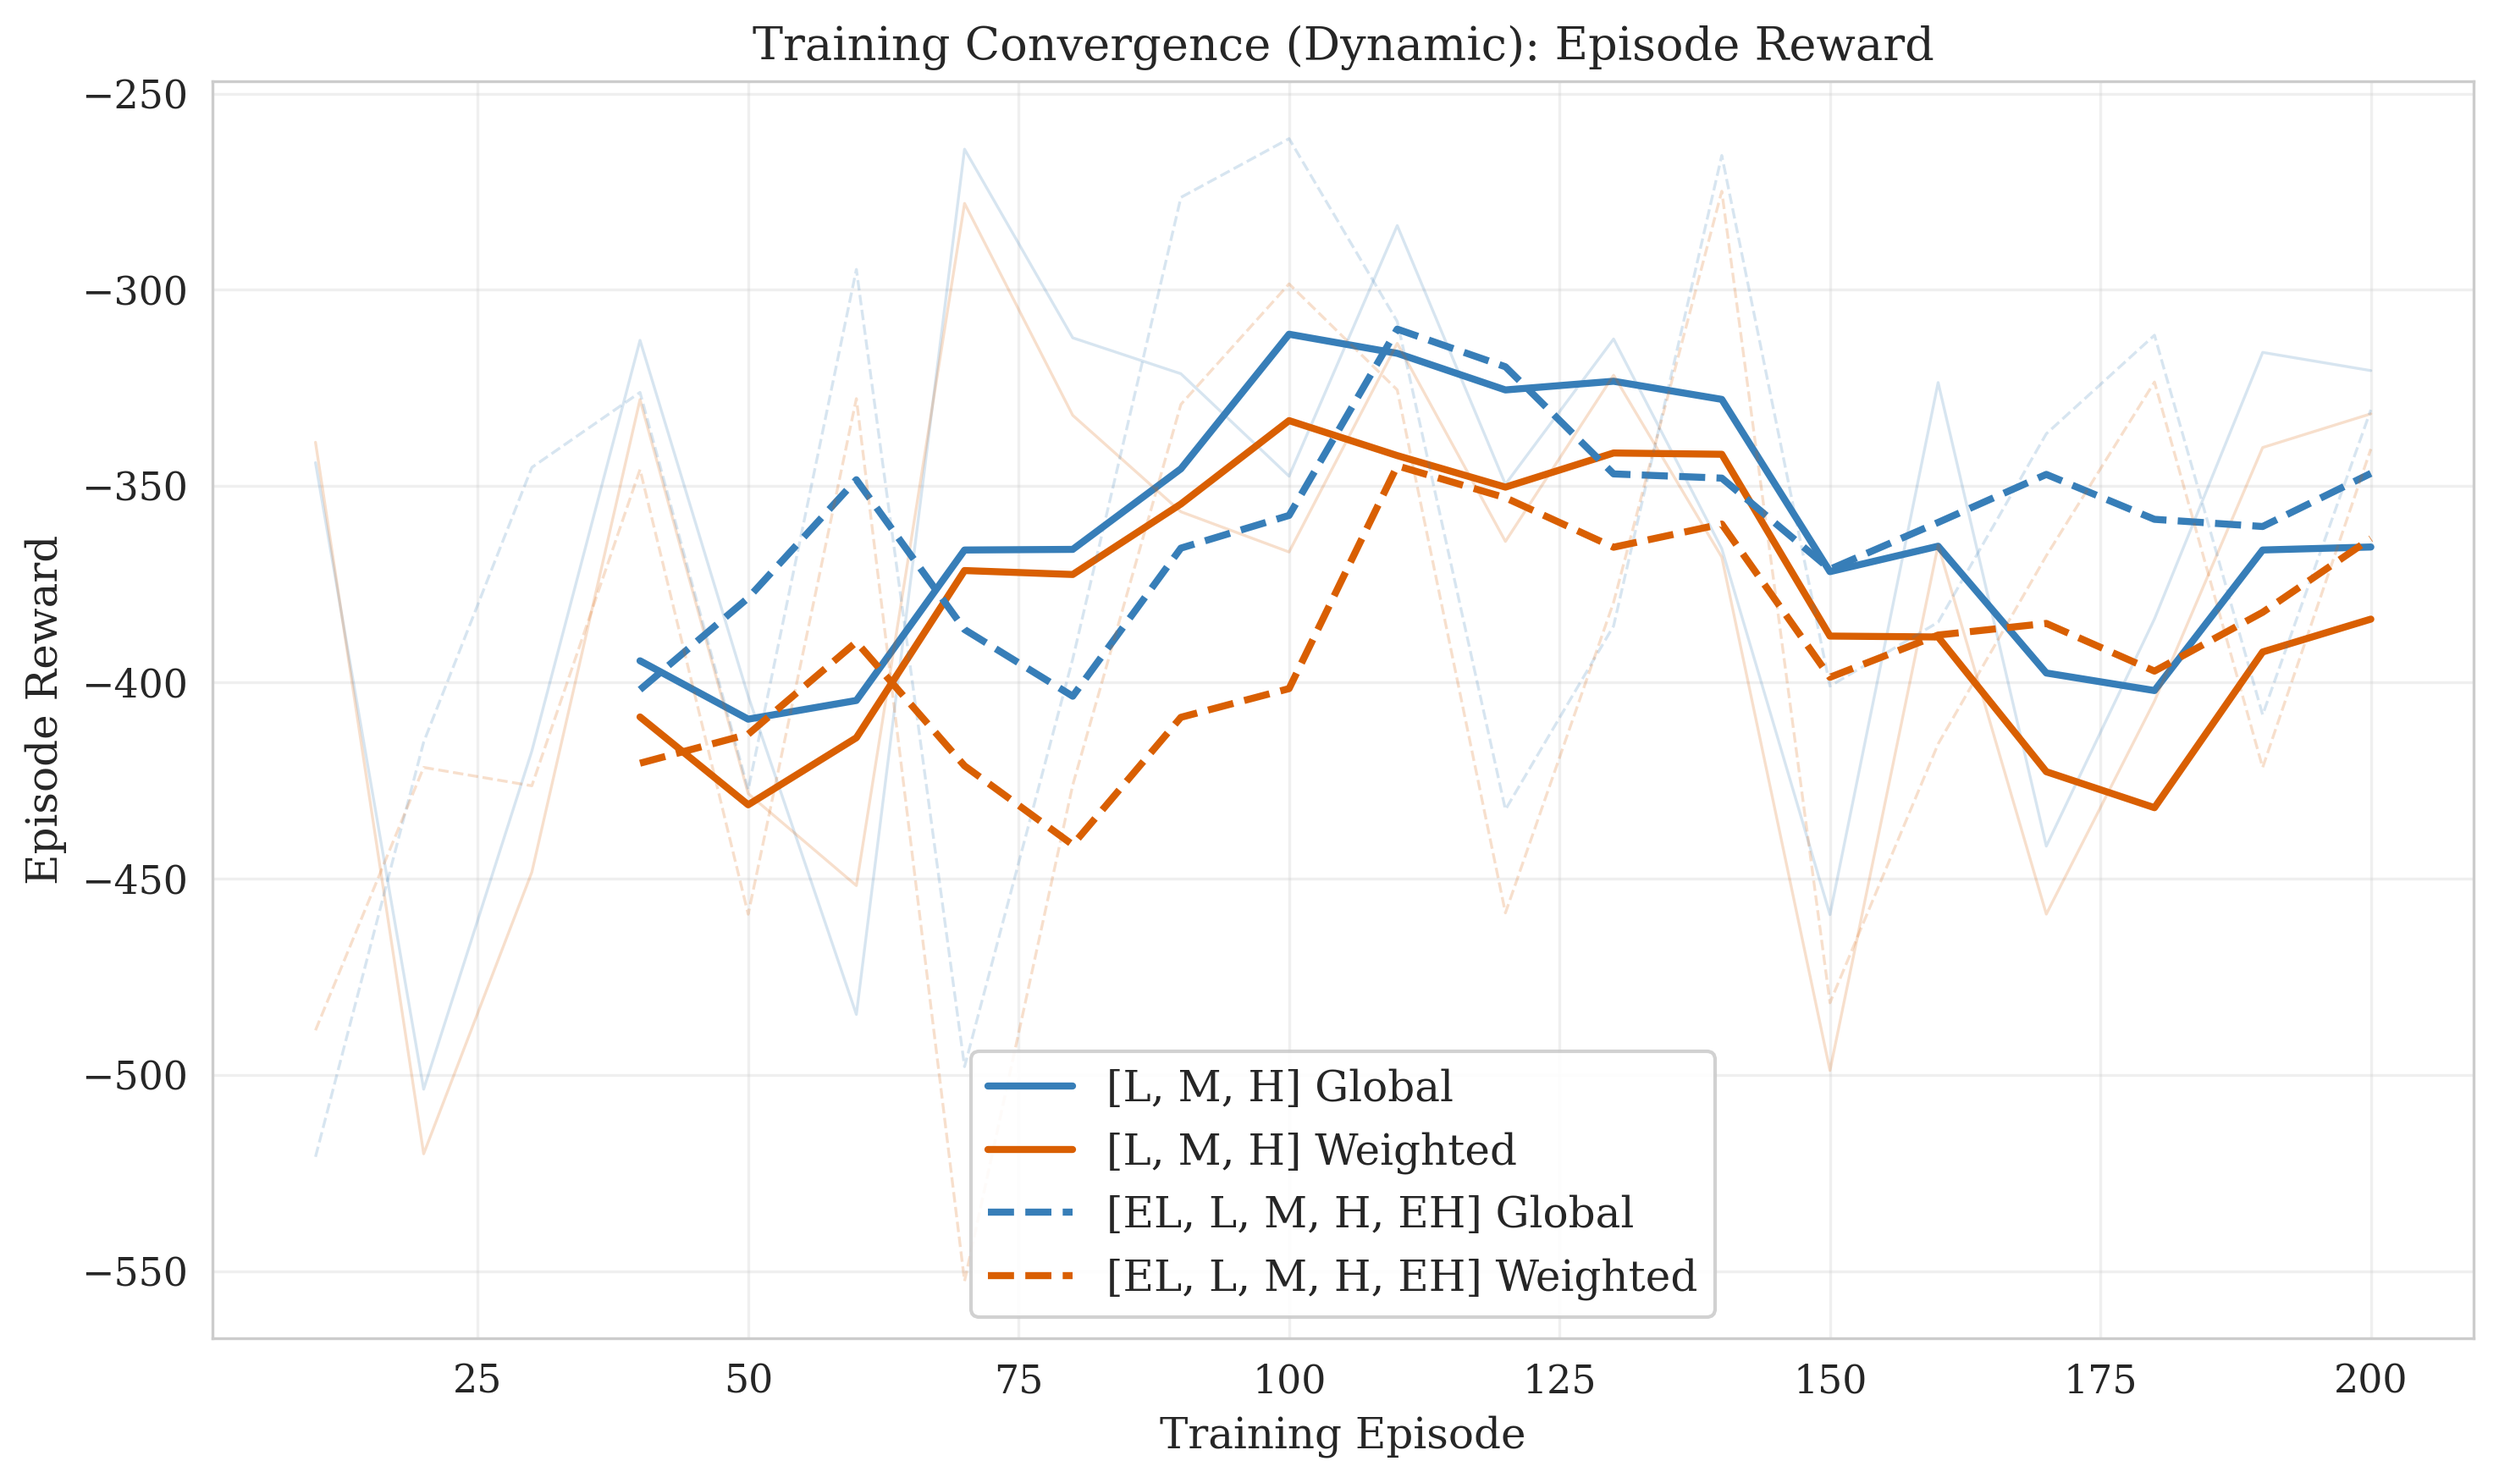
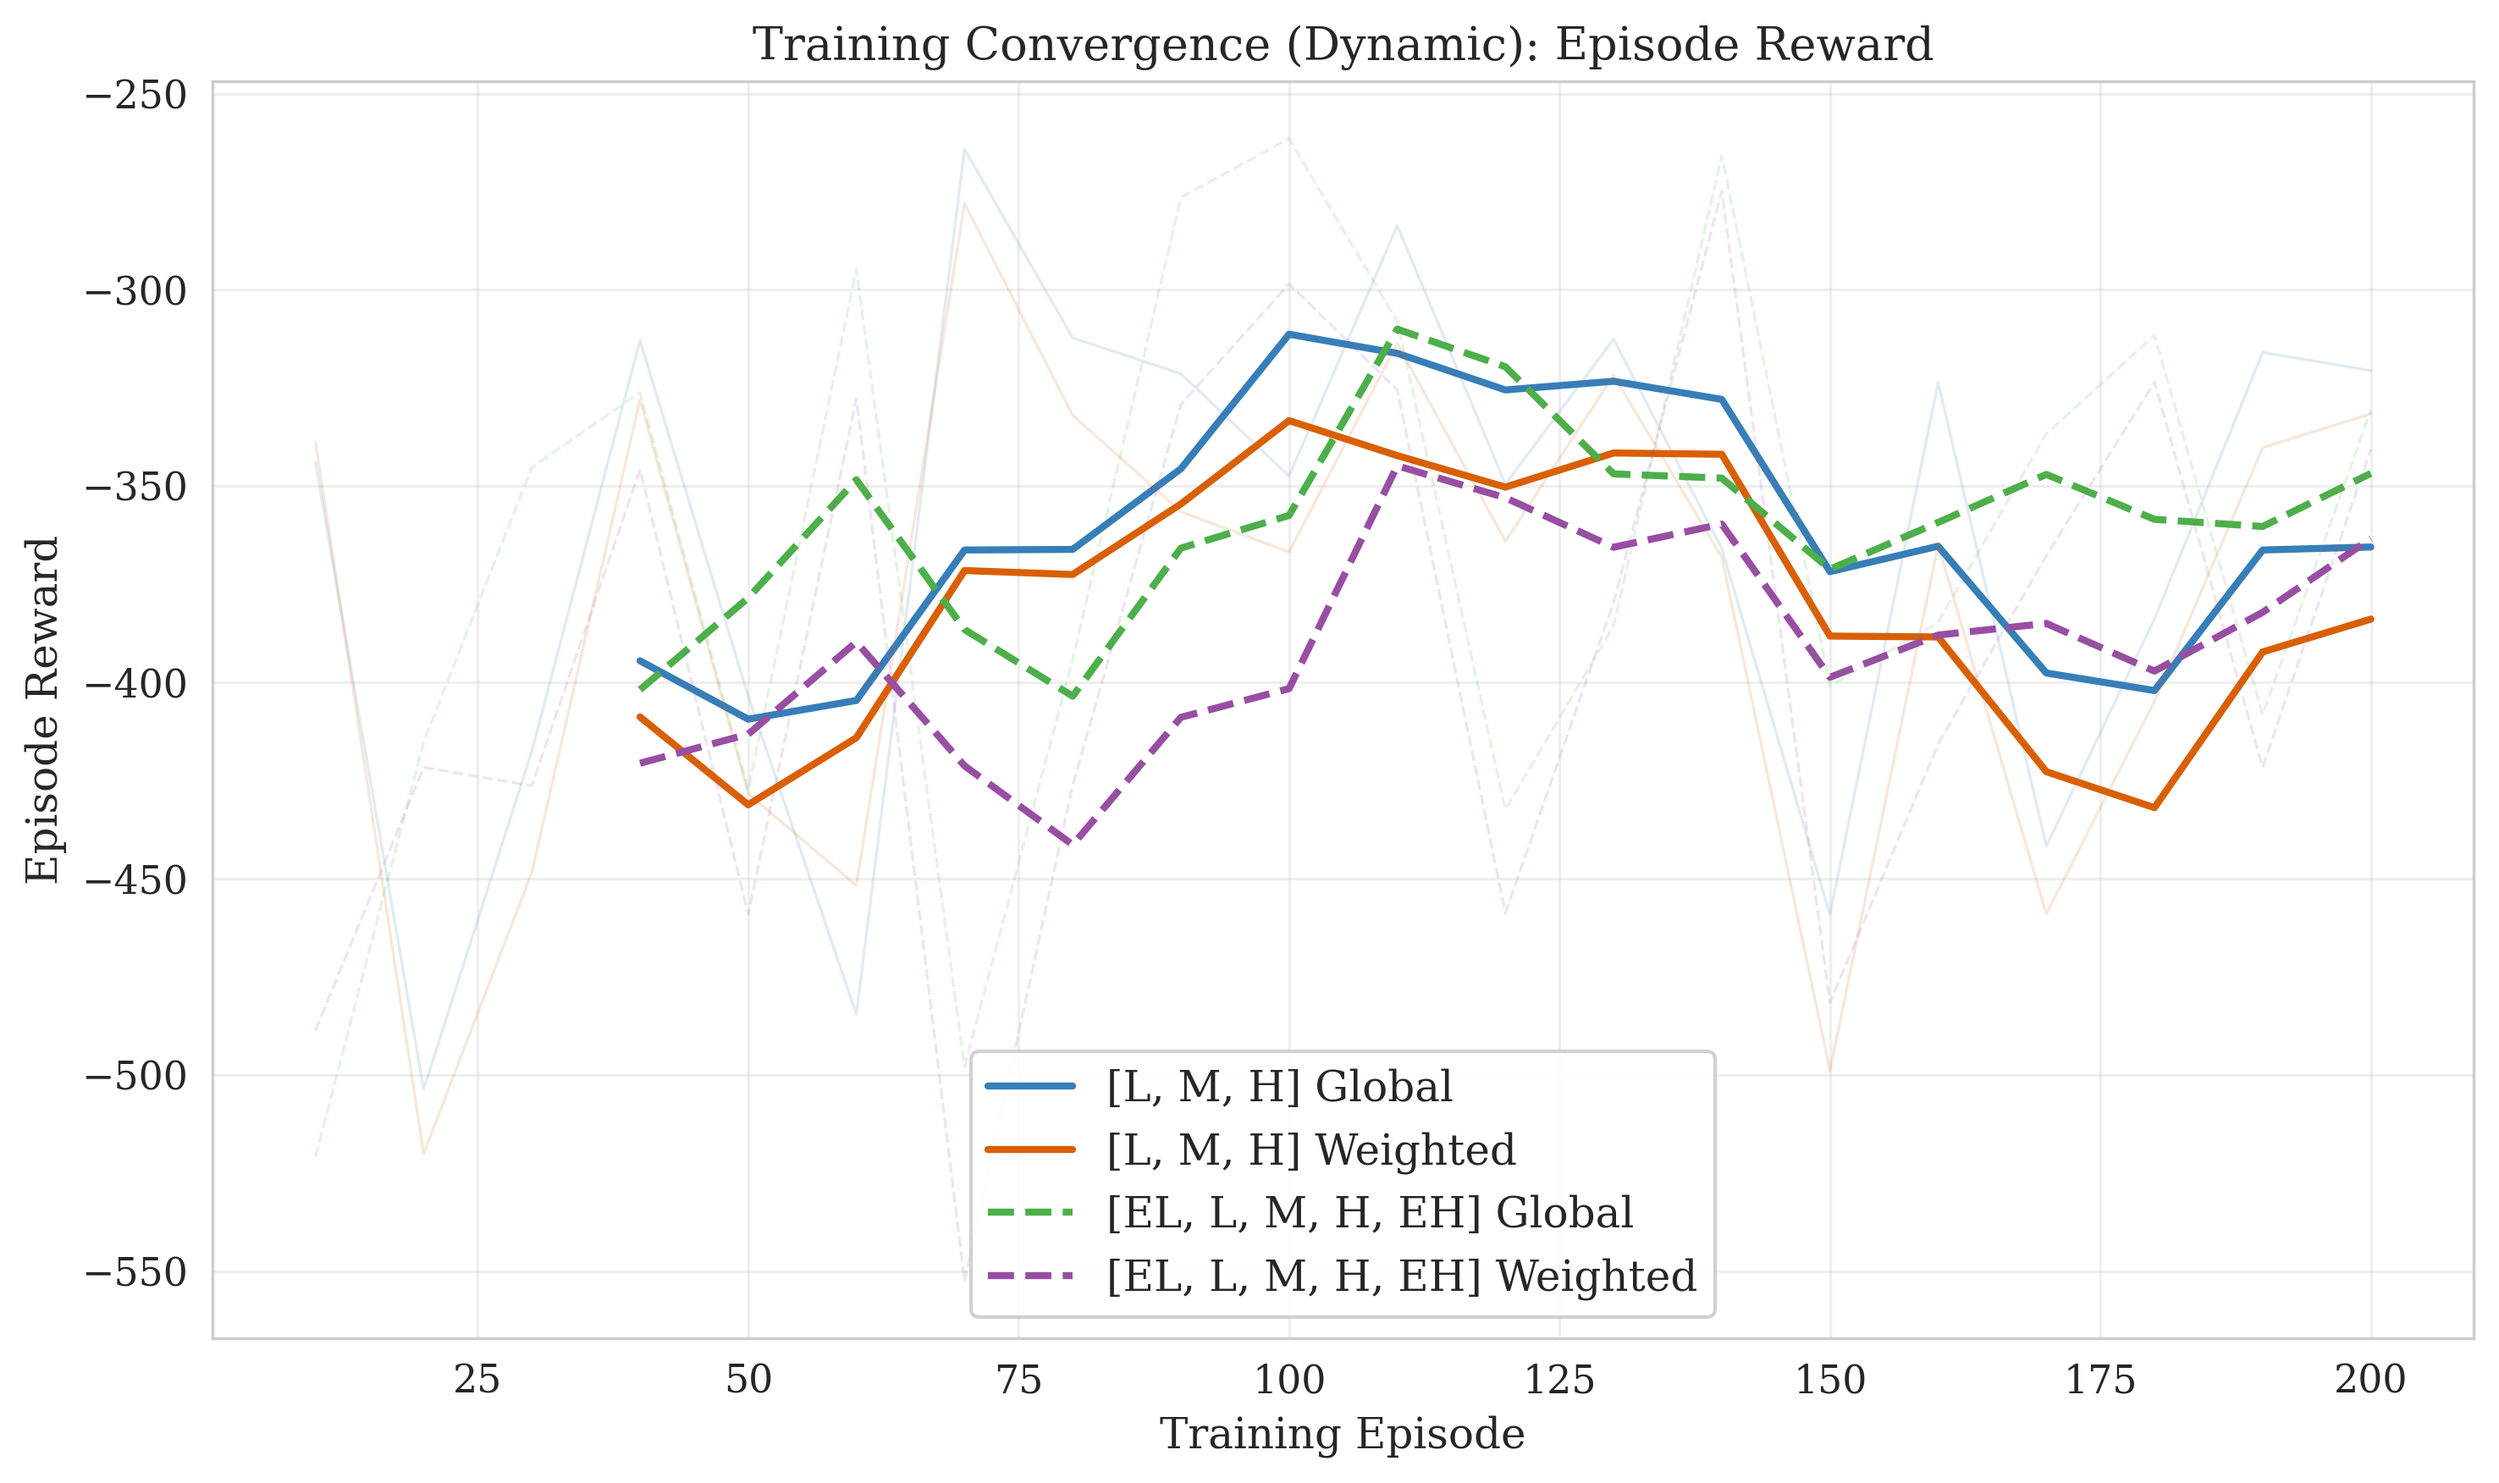
ver4.1

diff --git a/figures_static.py b/figures_static.py
@@ -271,15 +271,15 @@ def fig1_training_convergence(experiments, output_dir):
         )
 
     # ── Combined figures: 4 curves each (all pools × all reward formulations) ──
-    # Collect one experiment per (pool_size, reward_formulation) combination.
-    # Color encodes reward formulation; line style encodes pool.
-    # Blues  (#377eb8 solid, #377eb8 dashed)  → global
-    # Oranges (#d95f02 solid, #d95f02 dashed) → weighted
-    # Solid  → smaller pool  (e.g. [L,M,H])
-    # Dashed → larger pool   (e.g. [EL,L,M,H,EH])
-
-    rf_color = {'global': '#377eb8', 'weighted': '#d95f02'}
-    pool_style = {}   # pool_size → linestyle, filled in below
+    # Each (pool, reward_formulation) combination gets a fully distinct color
+    # so all 4 curves are unambiguous.
+    # Line style is a secondary cue: solid = smaller pool, dashed = larger pool.
+    #
+    # Color assignment (sorted by pool_size asc, then rf asc):
+    #   [L,M,H]         global   → blue   #377eb8  solid
+    #   [L,M,H]         weighted → orange #d95f02  solid
+    #   [EL,L,M,H,EH]   global   → green  #4daf4a  dashed
+    #   [EL,L,M,H,EH]   weighted → purple #984ea3  dashed
 
     # Gather all unique (pool_size, rf) combos from dynamic experiments
     combos = {}   # (pool_size, rf) → exp
@@ -293,9 +293,15 @@ def fig1_training_convergence(experiments, output_dir):
             combos[key] = exp
 
     if combos:
-        # Assign line styles to pool sizes: smallest pool → solid, rest → dashed styles
-        for i, ps in enumerate(sorted({k[0] for k in combos})):
-            pool_style[ps] = ['-', '--', ':', '-.'][i % 4]
+        # Sort combos: pool_size asc, then rf asc → deterministic order
+        sorted_combos = sorted(combos.items())   # list of ((pool_size, rf), exp)
+
+        # Distinct colors for up to 4 combos
+        color_palette = ['#377eb8', '#d95f02', '#4daf4a', '#984ea3']
+
+        # Line style: solid for smallest pool, dashed for larger pools
+        pool_sizes_sorted = sorted({k[0] for k in combos})
+        pool_ls = {ps: ['-', '--', ':', '-.'][i] for i, ps in enumerate(pool_sizes_sorted)}
 
         for metric_key, ylabel, fname_base, title_base in [
             ('episode_reward', LABEL_REWARD,
@@ -308,19 +314,23 @@ def fig1_training_convergence(experiments, output_dir):
             fig, ax = plt.subplots(figsize=(10, 6))
             plotted = 0
 
-            for (pool_size, rf), exp in sorted(combos.items()):
+            for idx, ((pool_size, rf), exp) in enumerate(sorted_combos):
                 if metric_key not in exp['data']:
                     continue
-                pool  = exp.get('dynamic_profile_set', [])
-                color = rf_color.get(rf, 'gray')
-                ls    = pool_style.get(pool_size, '-')
+
+                pool        = exp.get('dynamic_profile_set', [])
+                color       = color_palette[idx % len(color_palette)]
+                ls          = pool_ls.get(pool_size, '-')
                 pool_abbrev = abbrev_profile(pool) if pool else exp['scenario_str']
-                label = f"[{pool_abbrev}] {rf.capitalize()}"
+                label       = f"[{pool_abbrev}] {rf.capitalize()}"
 
                 steps  = np.array(exp['data'][metric_key]['steps'])
                 values = np.array(exp['data'][metric_key]['values'])
-                ax.plot(steps, values, alpha=0.2, color=color, linewidth=0.8,
-                        linestyle=ls)
+
+                # Faint raw trace
+                ax.plot(steps, values, alpha=0.15, color=color,
+                        linewidth=0.8, linestyle=ls)
+                # Moving-average trend line (labelled)
                 if len(values) >= 20:
                     window = min(20, len(values) // 5)
                     ma = np.convolve(values, np.ones(window) / window, mode='valid')
